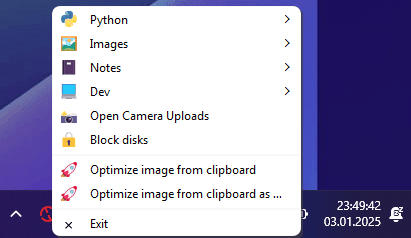
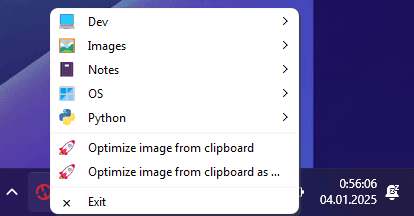
Modify. Rearranging menu items

Changed region(s): [[0.0, 0.0, 0.9927, 1.0], [0.0, 0.8611, 0.0584, 0.9167]]

diff --git a/src/harrix_swiss_knife/main.py b/src/harrix_swiss_knife/main.py
@@ -11,37 +11,7 @@ class MainMenu(main_menu_base.MainMenuBase):
     def __init__(self):
         super().__init__()
 
-        # Menu Python
-        self.menu_python = self.new_menu("Python", "py.svg")
-        self.add_item(self.menu_python, actions_py.on_rye_new_project)
-        self.add_item(self.menu_python, actions_py.on_rye_new_project_dialog)
-        self.add_item(self.menu_python, actions_py.on_sort_python_code_folder)
-        self.add_item(self.menu_python, actions_py.on_sort_python_code_file)
-        self.add_item(self.menu_python, actions_py.on_sort_isort_fmt_python_code_folder)
-
-        # Menu Images
-        self.menu_images = self.new_menu("Images", "🖼")
-        self.add_item(self.menu_images, actions_images.on_images_optimize)
-        self.add_item(self.menu_images, actions_images.on_images_optimize_quality)
-        self.add_item(self.menu_images, actions_images.on_image_optimize_dialog)
-        self.add_item(self.menu_images, actions_images.on_image_optimize_dialog_replace)
-        self.add_item(self.menu_images, actions_images.on_image_optimize_file)
-        self.menu_images.addSeparator()
-        self.add_item(self.menu_images, actions_images.on_image_clear_optimized_images)
-        self.add_item(self.menu_images, actions_images.on_image_clear_images)
-        self.add_item(self.menu_images, actions_images.on_image_open_optimized_images)
-        self.add_item(self.menu_images, actions_images.on_image_open_images)
-
-        # Notes
-        self.menu_notes = self.new_menu("Notes", "📓")
-        self.add_item(self.menu_notes, actions_notes.on_new_note_dialog)
-        self.add_item(self.menu_notes, actions_notes.on_new_note_dialog_with_images)
-        self.add_item(self.menu_notes, actions_notes.on_diary_new)
-        self.add_item(self.menu_notes, actions_notes.on_diary_new_with_images)
-        self.add_item(self.menu_notes, actions_notes.on_diary_new_dream)
-        self.add_item(self.menu_notes, actions_notes.on_new_article)
-
-        # Dev
+        # Menu Dev
         self.menu_dev = self.new_menu("Dev", "💻")
         self.action_get_menu = QAction(
             self.get_icon("☰"), "Get the list of items from this menu", triggered=lambda: self.get_menu()
@@ -49,13 +19,47 @@ class MainMenu(main_menu_base.MainMenuBase):
         self.menu_dev.addAction(self.action_get_menu)
         self.add_item(self.menu_dev, actions_dev.on_open_config_json)
 
+        # Menu Images
+        self.menu_images = self.new_menu("Images", "🖼")
+        self.add_item(self.menu_images, actions_images.on_images_optimize)
+        self.add_item(self.menu_images, actions_images.on_images_optimize_quality)
+        self.add_item(self.menu_images, actions_images.on_image_optimize_dialog_replace)
+        self.add_item(self.menu_images, actions_images.on_image_optimize_dialog)
+        self.add_item(self.menu_images, actions_images.on_image_optimize_file)
+        self.menu_images.addSeparator()
+        self.add_item(self.menu_images, actions_images.on_image_clear_images)
+        self.add_item(self.menu_images, actions_images.on_image_clear_optimized_images)
+        self.add_item(self.menu_images, actions_images.on_image_open_images)
+        self.add_item(self.menu_images, actions_images.on_image_open_optimized_images)
+
+        # Notes
+        self.menu_notes = self.new_menu("Notes", "📓")
+        self.add_item(self.menu_notes, actions_notes.on_diary_new_dream)
+        self.add_item(self.menu_notes, actions_notes.on_diary_new_with_images)
+        self.add_item(self.menu_notes, actions_notes.on_diary_new)
+        self.add_item(self.menu_notes, actions_notes.on_new_article)
+        self.add_item(self.menu_notes, actions_notes.on_new_note_dialog_with_images)
+        self.add_item(self.menu_notes, actions_notes.on_new_note_dialog)
+
+        # Menu OS
+        self.menu_os = self.new_menu("OS", "🪟")
+        self.add_item(self.menu_os, actions_os.on_block_disks)
+        self.add_item(self.menu_os, actions_os.on_open_camera_uploads)
+
+        # Menu Python
+        self.menu_python = self.new_menu("Python", "py.svg")
+        self.add_item(self.menu_python, actions_py.on_rye_new_project_dialog)
+        self.add_item(self.menu_python, actions_py.on_rye_new_project)
+        self.add_item(self.menu_python, actions_py.on_sort_isort_fmt_python_code_folder)
+        self.add_item(self.menu_python, actions_py.on_sort_python_code_file)
+        self.add_item(self.menu_python, actions_py.on_sort_python_code_folder)
+
         # MainMenu
-        self.menu.addMenu(self.menu_python)
+        self.menu.addMenu(self.menu_dev)
         self.menu.addMenu(self.menu_images)
         self.menu.addMenu(self.menu_notes)
-        self.menu.addMenu(self.menu_dev)
-        self.add_item(self.menu, actions_os.on_open_camera_uploads)
-        self.add_item(self.menu, actions_os.on_block_disks)
+        self.menu.addMenu(self.menu_os)
+        self.menu.addMenu(self.menu_python)
 
         self.menu.addSeparator()
         self.add_item(self.menu, actions_images.on_image_optimize_clipboard)

diff --git a/README.md b/README.md
@@ -12,34 +12,35 @@ _Figure 1: Screenshot_
 
 ## List of commands
 
-- **Python**
-  - New Rye project in Projects
-  - New Rye project in …
-  - Sort classes, methods, functions in PY files
-  - Sort classes, methods, functions in one PY file
-  - isort, rye fmt, sort in PY files
-- **Images**
-  - Optimize images
-  - Optimize images (high quality)
-  - Optimize images in …/temp
-  - Optimize images in … and replace
-  - Optimize one image
-  - Clear the folder `optimized_images`
-  - Clear the folder `images`
-  - Open the folder `optimized_images`
-  - Open the folder `images`
-- **Notes**
-  - New note
-  - New note with images
-  - New diary note
-  - New diary note with images
-  - New dream note
-  - New article
 - **Dev**
   - Get the list of items from this menu
   - Open config.json
-- Open Camera Uploads
-- Block disks
+- **Images**
+  - Optimize images
+  - Optimize images (high quality)
+  - Optimize images in … and replace
+  - Optimize images in …/temp
+  - Optimize one image
+  - Clear the folder `images`
+  - Clear the folder `optimized_images`
+  - Open the folder `images`
+  - Open the folder `optimized_images`
+- **Notes**
+  - New dream note
+  - New diary note with images
+  - New diary note
+  - New article
+  - New note with images
+  - New note
+- **OS**
+  - Block disks
+  - Open Camera Uploads
+- **Python**
+  - New Rye project in …
+  - New Rye project in Projects
+  - isort, rye fmt, sort in PY files
+  - Sort classes, methods, functions in one PY file
+  - Sort classes, methods, functions in PY files
 - Optimize image from clipboard
 - Optimize image from clipboard as …
 - Exit
